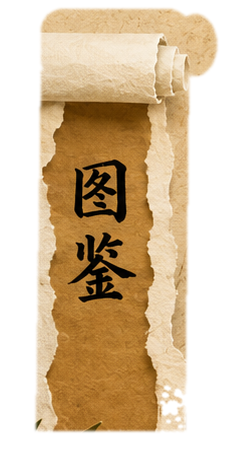
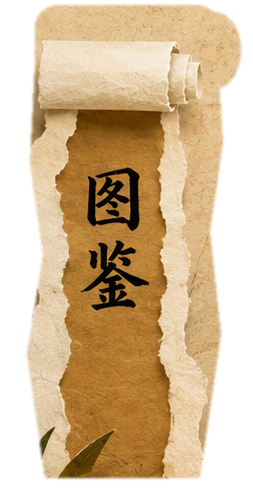
fix: refine main menu scroll cutout edges

diff --git a/tools/extract_main_menu_scrolls.py b/tools/extract_main_menu_scrolls.py
@@ -15,16 +15,11 @@ OUTPUT_DIR = Path("assets/ui/main_menu")
 # They include a small margin around each scroll so the hover scale has enough
 # painted edge to grow from.
 SCROLL_RECTS = {
-	"new_game": (72.0, 154.0, 194.0, 504.0),
-	"continue": (252.0, 224.0, 204.0, 432.0),
-	"gallery": (438.0, 294.0, 176.0, 362.0),
-	"settings": (598.0, 358.0, 170.0, 300.0),
-	"quit": (756.0, 410.0, 170.0, 248.0),
-}
-BOTTOM_ALPHA_LIMITS = {
-	"new_game": 0.84,
-	"continue": 0.92,
-	"gallery": 0.92,
+	"new_game": (66.0, 148.0, 210.0, 520.0),
+	"continue": (244.0, 218.0, 218.0, 446.0),
+	"gallery": (428.0, 288.0, 194.0, 376.0),
+	"settings": (590.0, 348.0, 184.0, 316.0),
+	"quit": (748.0, 400.0, 184.0, 264.0),
 }
 
 
@@ -44,24 +39,32 @@ def _shape_mask(size: tuple[int, int]) -> np.ndarray:
 	mask = Image.new("L", size, 0)
 	draw = ImageDraw.Draw(mask)
 
-	# Parchment body, including torn side strips.
+	# Parchment body, including the irregular torn side strips. The mask is
+	# intentionally generous: small background overlaps are less noticeable than
+	# missing paper edges when the button scales on hover.
 	draw.polygon(
 		[
-			(width * 0.18, height * 0.15),
-			(width * 0.82, height * 0.15),
-			(width * 0.80, height * 0.91),
-			(width * 0.16, height * 0.91),
+			(width * 0.14, height * 0.13),
+			(width * 0.86, height * 0.13),
+			(width * 0.88, height * 0.29),
+			(width * 0.83, height * 0.47),
+			(width * 0.87, height * 0.68),
+			(width * 0.79, height * 0.97),
+			(width * 0.18, height * 0.97),
+			(width * 0.11, height * 0.72),
+			(width * 0.17, height * 0.52),
+			(width * 0.12, height * 0.33),
 		],
 		fill=255,
 	)
 	# Top roll and the short curled lip on the right.
 	draw.rounded_rectangle(
-		(width * 0.18, height * 0.02, width * 0.82, height * 0.17),
+		(width * 0.14, height * 0.01, width * 0.86, height * 0.19),
 		radius=max(8, int(height * 0.045)),
 		fill=255,
 	)
 	draw.ellipse(
-		(width * 0.76, height * 0.03, width * 0.94, height * 0.16),
+		(width * 0.75, height * 0.025, width * 0.95, height * 0.18),
 		fill=255,
 	)
 	shape = np.array(mask, dtype=np.uint8)
@@ -69,17 +72,9 @@ def _shape_mask(size: tuple[int, int]) -> np.ndarray:
 	return shape
 
 
-def _extract_alpha(crop_bgr: np.ndarray, name: str) -> np.ndarray:
+def _extract_alpha(crop_bgr: np.ndarray) -> np.ndarray:
 	height, width = crop_bgr.shape[:2]
 	alpha = _shape_mask((width, height))
-	b, g, r = cv2.split(crop_bgr)
-	yy = np.arange(height)[:, None]
-	lower_crop = yy > int(height * 0.70)
-	leaf_like = lower_crop & (g > r + 8) & (g > b + 18)
-	mushroom_like = lower_crop & (yy > int(height * 0.80)) & (r > g + 60) & (r > b + 60) & (r > 175)
-	alpha[leaf_like | mushroom_like] = 0
-	if name in BOTTOM_ALPHA_LIMITS:
-		alpha[int(height * BOTTOM_ALPHA_LIMITS[name]) :, :] = 0
 	close_kernel = cv2.getStructuringElement(cv2.MORPH_ELLIPSE, (5, 5))
 	open_kernel = cv2.getStructuringElement(cv2.MORPH_ELLIPSE, (3, 3))
 	alpha = cv2.morphologyEx(alpha, cv2.MORPH_CLOSE, close_kernel)
@@ -97,7 +92,7 @@ def main() -> None:
 	for name, rect in SCROLL_RECTS.items():
 		x, y, width, height = _scaled_rect(rect, image_size)
 		crop_bgr = source[y : y + height, x : x + width]
-		alpha = _extract_alpha(crop_bgr, name)
+		alpha = _extract_alpha(crop_bgr)
 		crop_rgba = cv2.cvtColor(crop_bgr, cv2.COLOR_BGR2RGBA)
 		crop_rgba[:, :, 3] = alpha
 		output = OUTPUT_DIR / f"main_menu_scroll_{name}.png"

diff --git a/spec/Docs/02_Tech/ImplementationTODO.md b/spec/Docs/02_Tech/ImplementationTODO.md
@@ -799,7 +799,7 @@
 - 主菜单热区按 1280x720 设计稿坐标配置，并在运行时根据 `KEEP_ASPECT_COVERED` 缩放重新布局，避免不同窗口比例下背景图与点击区域漂移。
 - 无可继续存档时继续游戏热区会禁用并显示半透明遮罩，正式文字仍由美术图承载，按钮仅提供鼠标交互和 tooltip。
 - 主菜单当前按美术确认回到最初暖色调整图方案；背景仍使用整图，5 个菜单书卷从该整图裁出为 `main_menu_scroll_*.png` 透明贴图并作为按钮子节点覆盖在原位置，hover 通过全局按钮反馈放大卷轴贴图而不再显示方框。
-- `tools/extract_main_menu_scrolls.py` 用于从暖色主界面整图重新生成这 5 个书卷透明贴图；后续若背景图重绘，需要同步更新脚本中的 1280x720 设计坐标。
+- `tools/extract_main_menu_scrolls.py` 用于从暖色主界面整图重新生成这 5 个书卷透明贴图；当前采用偏宽的手工 alpha 轮廓，优先保证撕纸边缘完整，后续若背景图重绘，需要同步更新脚本中的 1280x720 设计坐标。
 
 实现假设：
 
